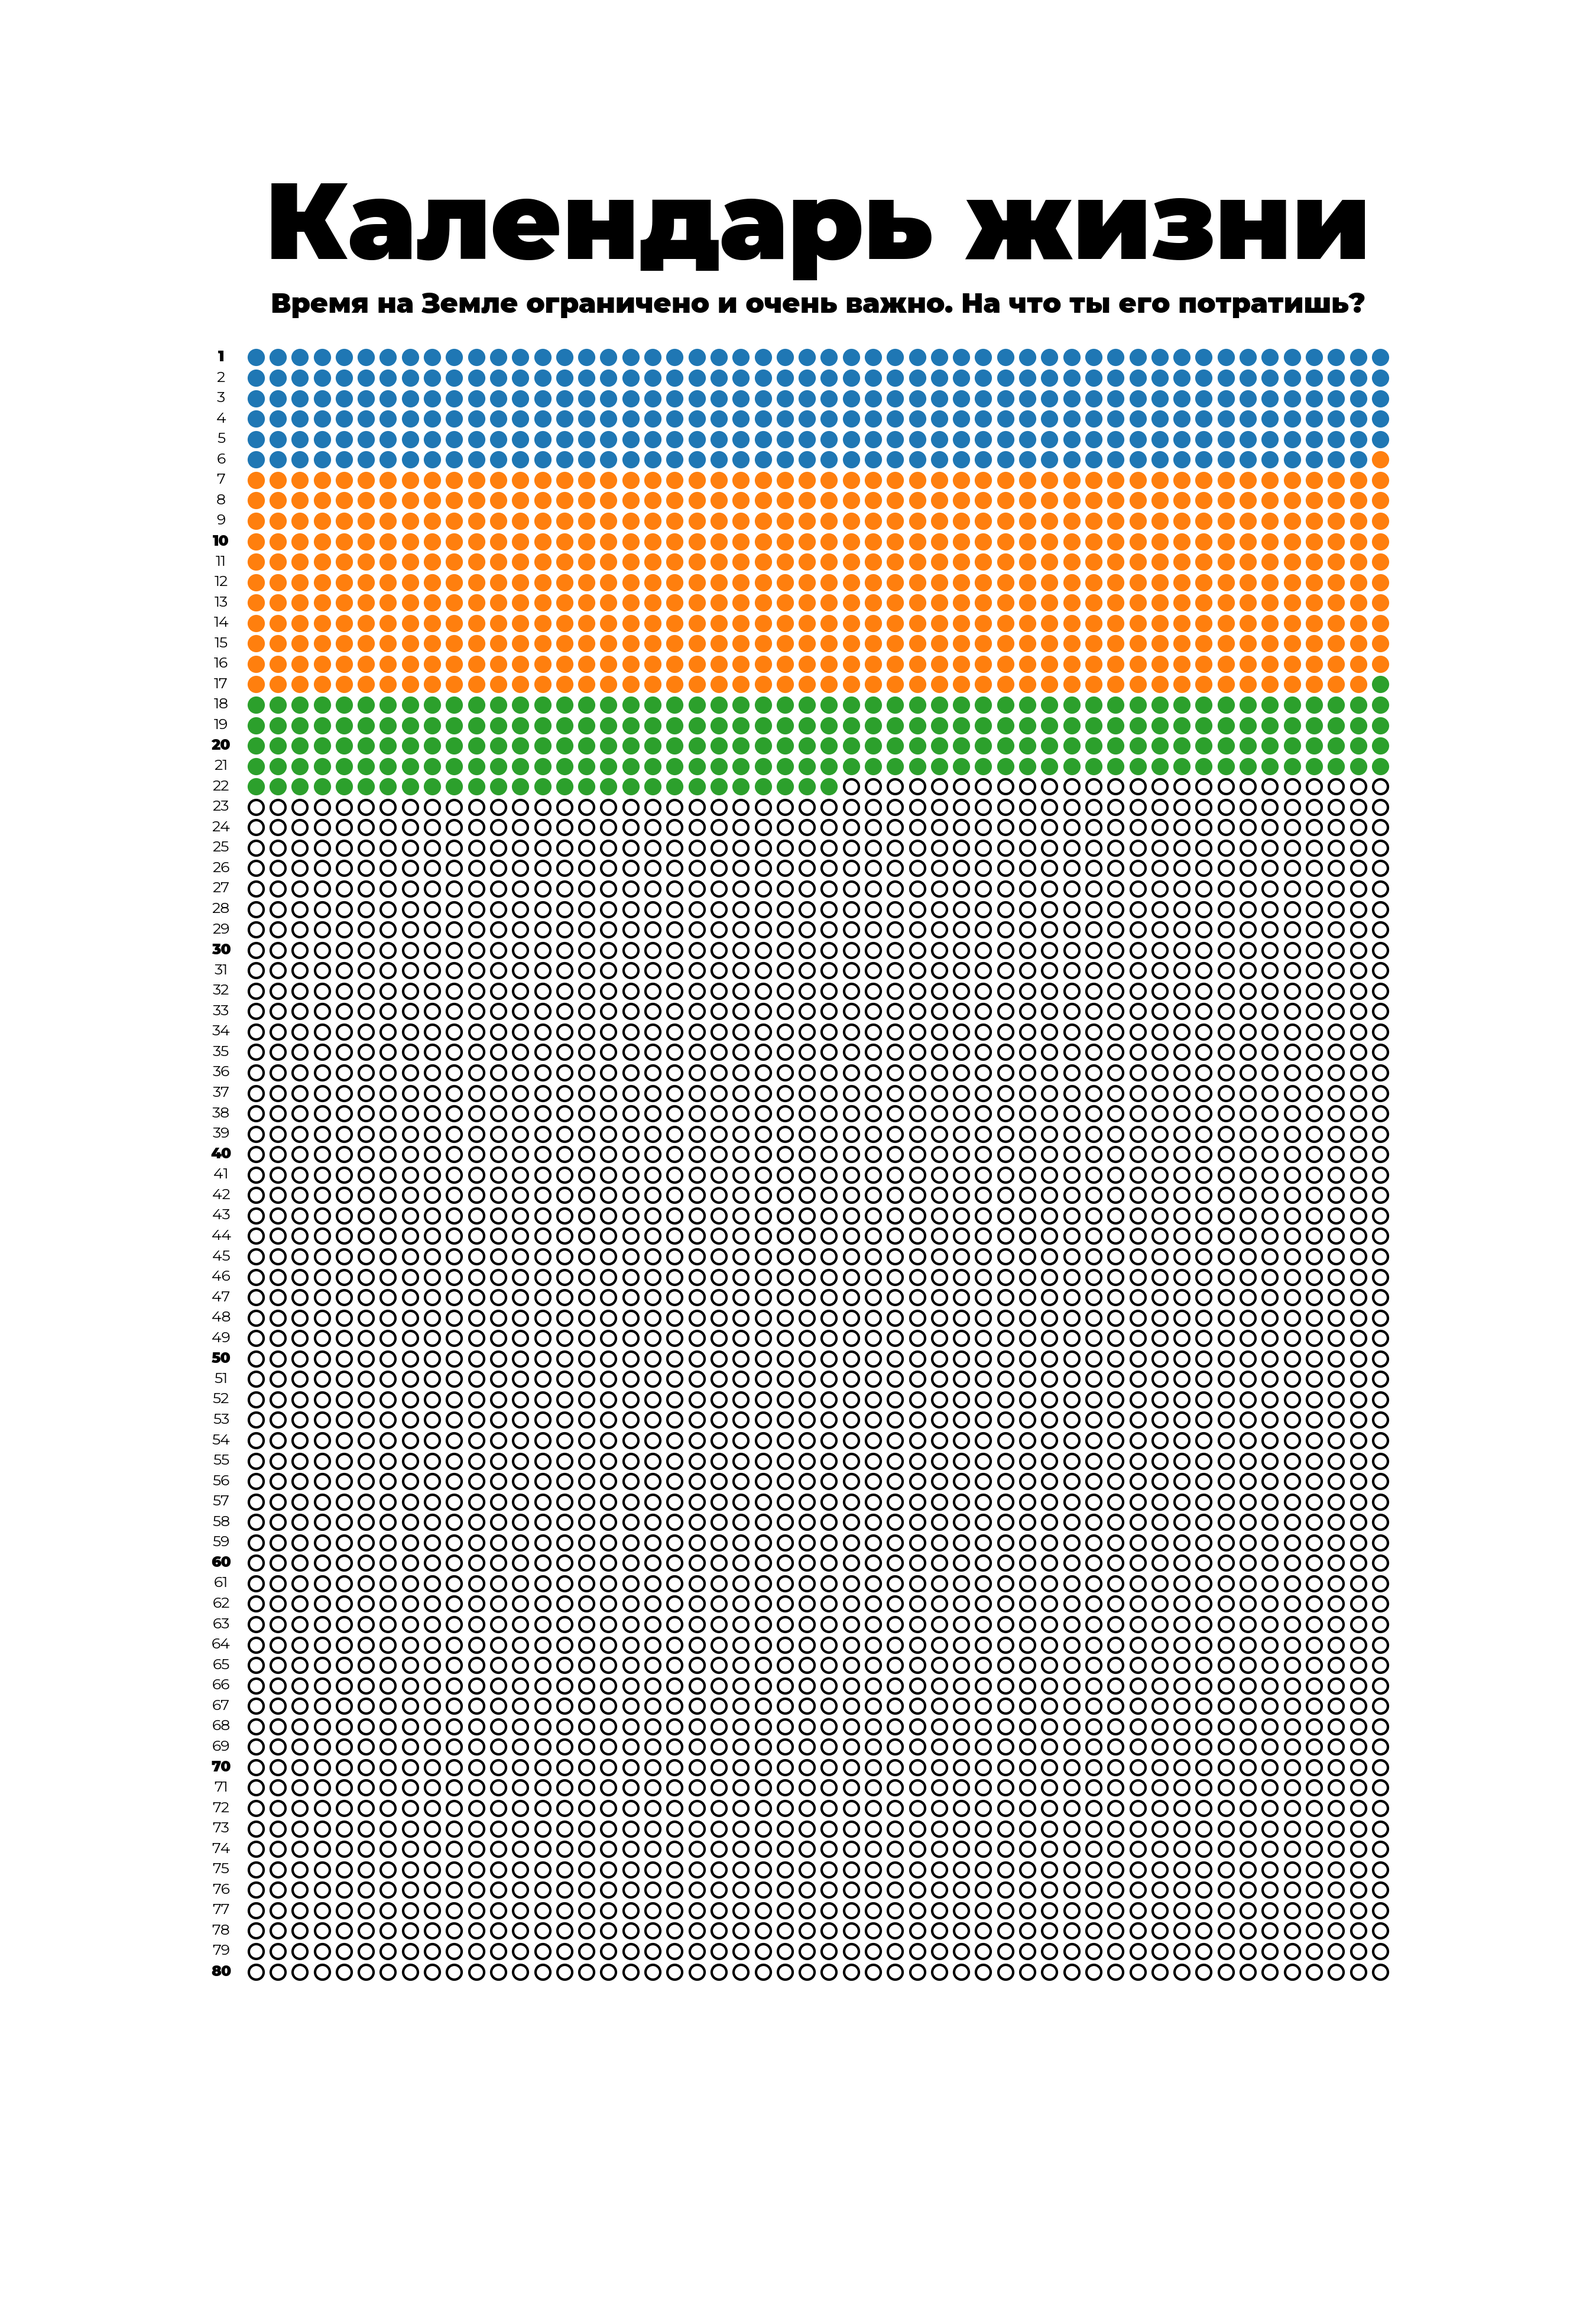
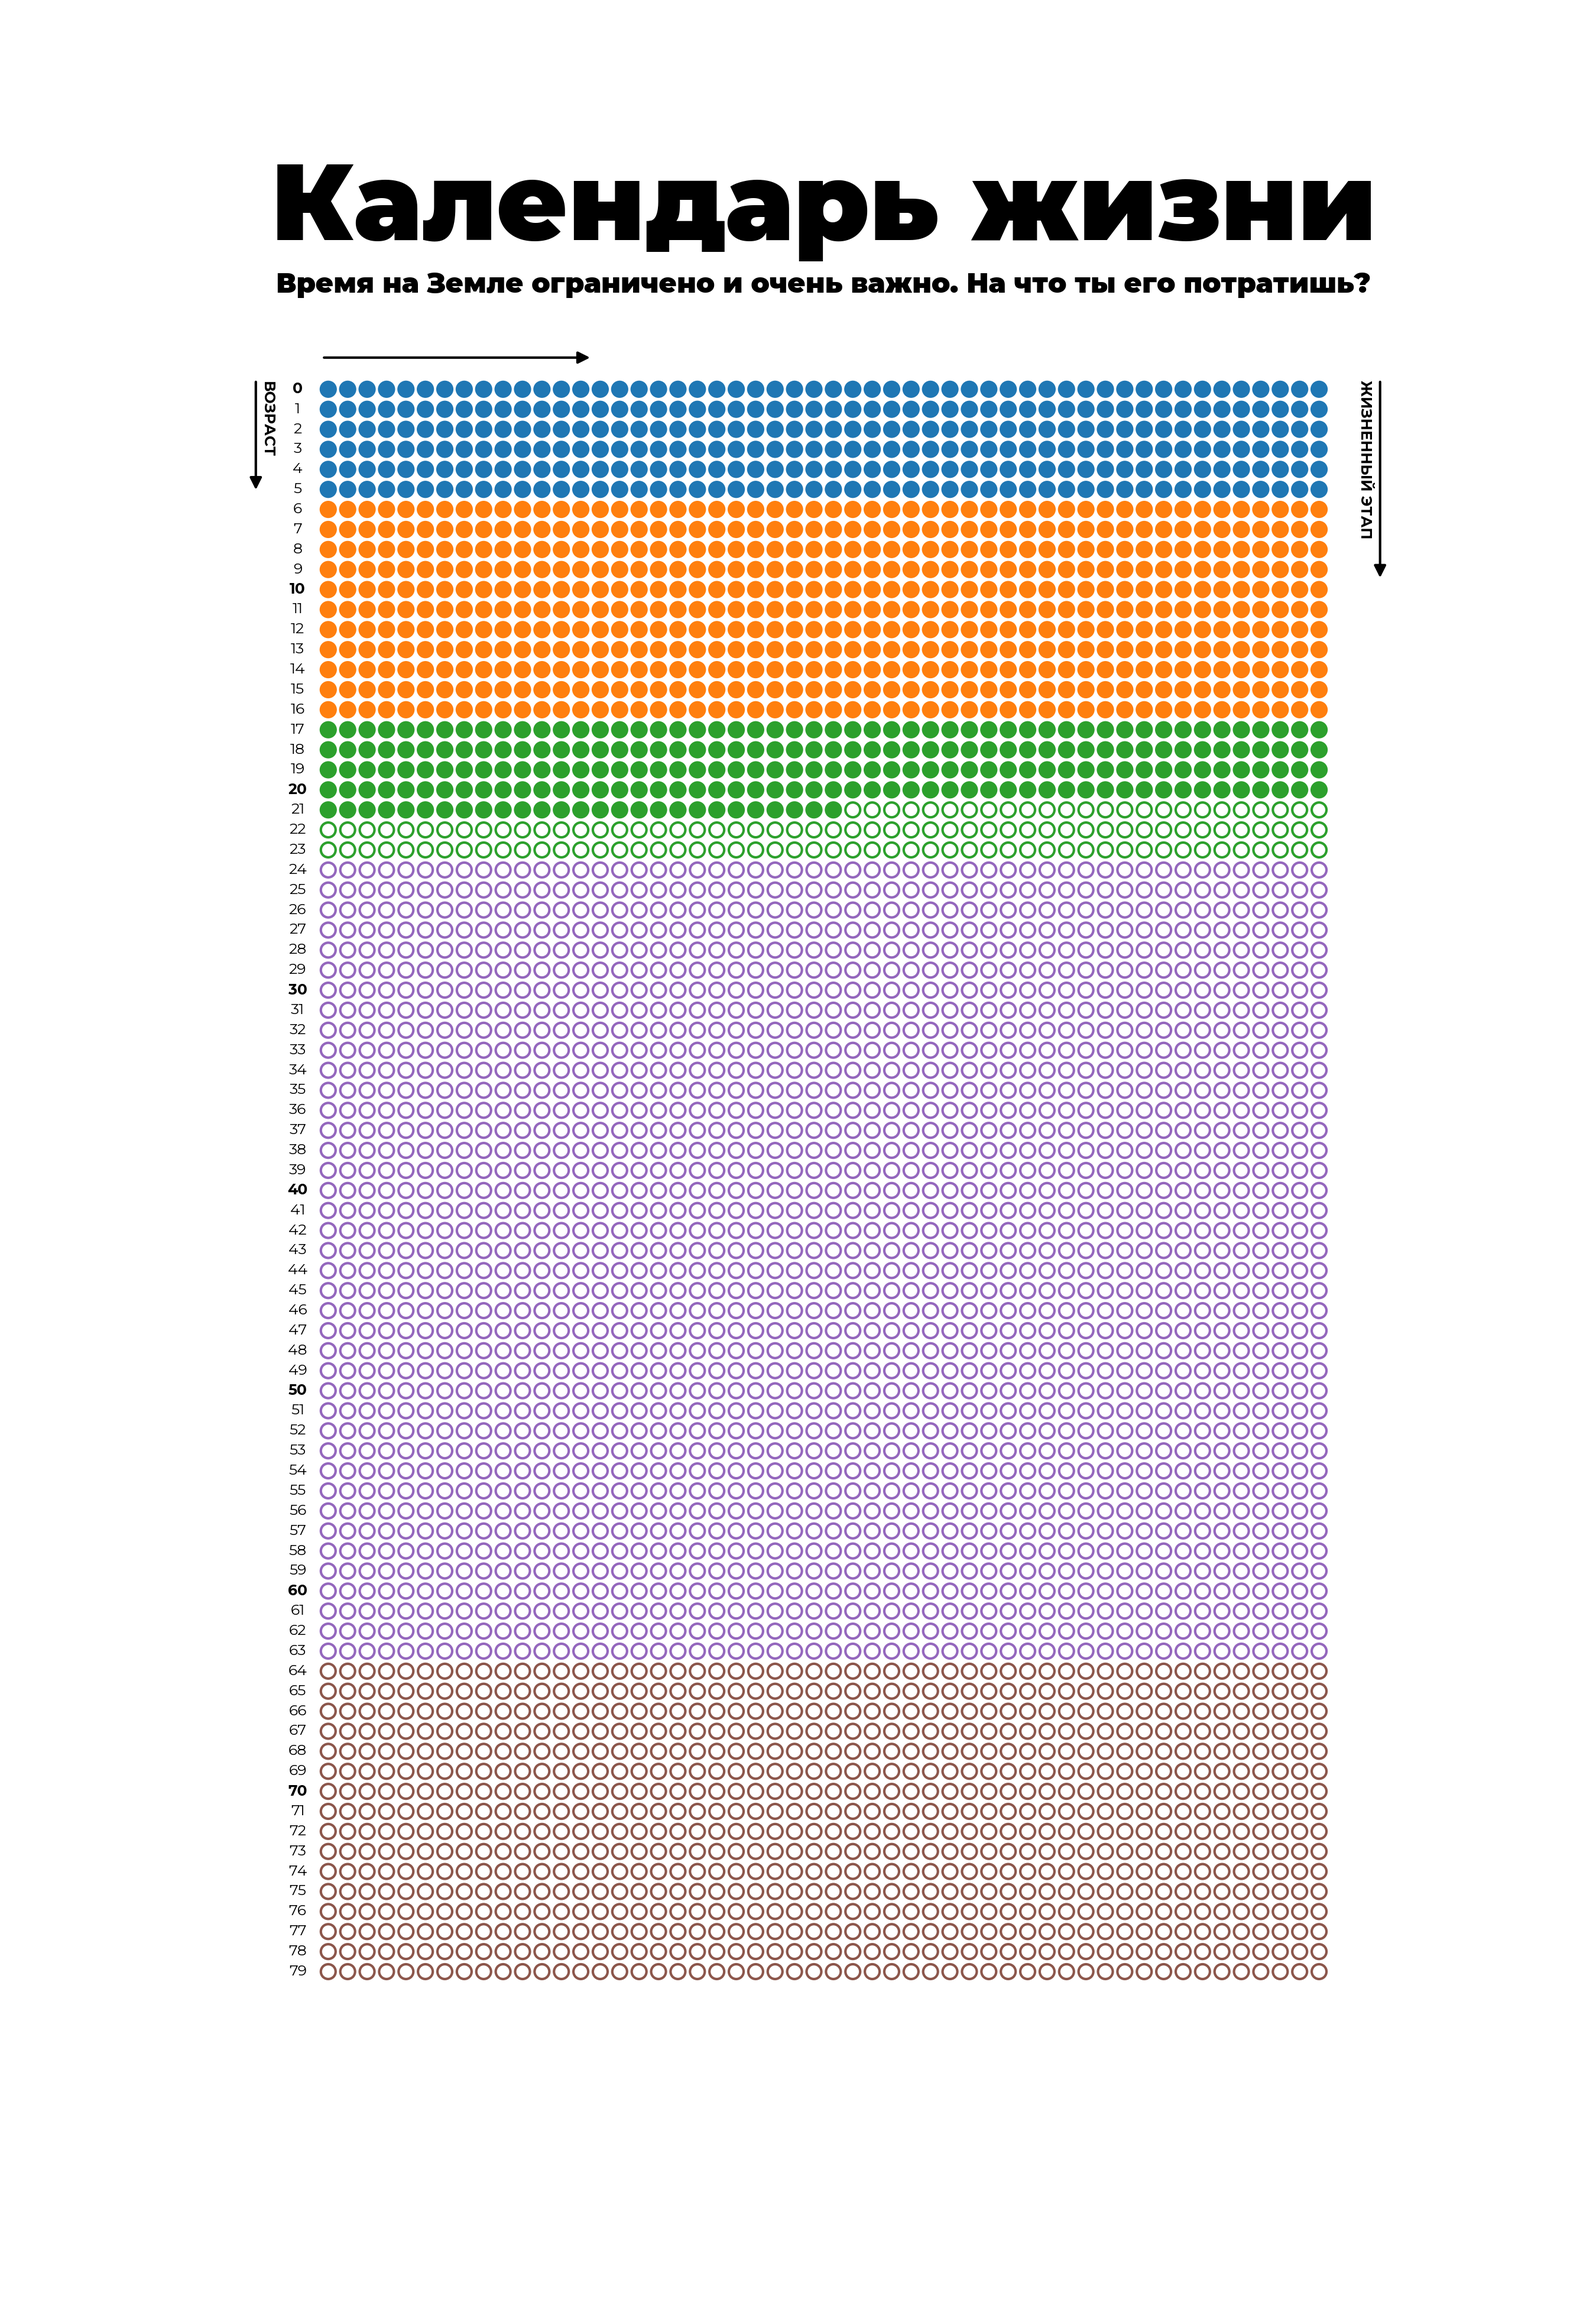
Add arrows to the calendar

Changed region(s): [[0.1244, 0.0621, 0.8711, 0.8687]]

diff --git a/life-calendar.py b/life-calendar.py
@@ -3,108 +3,116 @@ from __future__ import annotations
 import bisect
 import numpy as np
 from typing import NamedTuple
-from collections import defaultdict
 from datetime import date, timedelta
 
 from matplotlib.font_manager import fontManager
+from matplotlib.patches import FancyArrowPatch
 import matplotlib.pyplot as plt
 
+# ———————————————————————————————————————— FONT SETTINGS ————————————————————————————————————————
+
+fontManager.addfont('fonts/Montserrat-Bold.ttf')
 fontManager.addfont('fonts/Montserrat-Black.ttf')
 fontManager.addfont('fonts/Montserrat-Regular.ttf')
 plt.rcParams['font.family'] = 'Montserrat'
 plt.rcParams['font.weight'] = 'regular'
 
-TITLE_FONT = {
-    'family': 'Montserrat',
-    'weight': 'black',
-    'size': plt.rcParams.get('font.size', 12) * 4.4
-}
+TITLE_FONT =    {'family': 'Montserrat', 'weight': 'black',   'size': plt.rcParams.get('font.size', 12) * 4.4}
+SUBTITLE_FONT = {'family': 'Montserrat', 'weight': 'black',   'size': plt.rcParams.get('font.size', 12) * 1.115}
+BLACK_FONT =    {'family': 'Montserrat', 'weight': 'bold',    'size': plt.rcParams.get('font.size', 12) * 0.6}
+TEXT_FONT =     {'family': 'Montserrat', 'weight': 'regular', 'size': plt.rcParams.get('font.size', 12) * 0.6}
 
-SUBTITLE_FONT = {
-    'family': 'Montserrat',
-    'weight': 'black',
-    'size': plt.rcParams.get('font.size', 12) * 1.115
-}
-
-BLACK_FONT = {
-    'family': 'Montserrat',
-    'weight': 'bold',
-    'size': plt.rcParams.get('font.size', 12) * 0.6
-}
-
-TEXT_FONT = {
-    'family': 'Montserrat',
-    'weight': 'regular',
-    'size': plt.rcParams.get('font.size', 12) * 0.6
-}
+# ———————————————————————————————————————— CALENDAR RENDERING ————————————————————————————————————————
 
 def create_calendar(birthday, life: list[LifeStage], fname: str = 'calendar-of-life.png', h = 13, w = 9):
+    
+    # Initial settings 
+    
     plt.rcParams.update(plt.rcParamsDefault)
     fig, ax = plt.subplots(figsize = (w, h))
     ax.set_axis_off()
-    plt.text(6.5, 9.55, 'Календарь жизни', ha = 'center', **TITLE_FONT) 
-    plt.text(6.5, 9.25, 'Время на Земле ограничено и очень важно. На что ты его потратишь?', ha = 'center', **SUBTITLE_FONT)
+
+    # Rendering circles in a calendar
 
     days_per_week = 365.25 / 52
     weeks_of_life = (date.today() - birthday).days // 7 
     weeks_of_life_past = np.cumsum([(b.date - a.date).days / days_per_week for a, b in zip(life, life[1:])])
 
-    facecolors = {e.stage: e.color for e in life[1:]}
-    facecolors['future'] = 'white'
-    edgecolors = {e.stage: e.color for e in life[1:]} 
-    edgecolors['future'] = 'k' 
-    
-    data = defaultdict(list)
     week_num = 0
+    X, Y = [], []
+    FC, EC = [], []
+    facecolors = {e.stage : e.color for e in life[1:]}
+    edgecolors = {e.stage : e.color for e in life[1:]} 
     weeks = np.linspace(0, h, 52)
     years = np.linspace(w, 0, 80)
 
     for year in years:
         for week in weeks:
-            week_num += 1 
-            if week_num > weeks_of_life: 
-                stage = 'future' 
-            else: 
-                index = bisect.bisect_left(weeks_of_life_past, week_num) + 1
-                stage = life[index].stage
-            data[stage].append((week, year)) 
+            week_num += 1
+            stage = life[bisect.bisect_left(weeks_of_life_past, week_num) + 1].stage
+            X.append(week)
+            Y.append(year)
+            FC.append(facecolors[stage] if week_num <= weeks_of_life else 'white')
+            EC.append(edgecolors[stage])
 
-    for k, v in data.items():
-        ax.scatter(*zip(*v), edgecolors=edgecolors[k], facecolor=facecolors[k], label=k)
+    ax.scatter(X, Y, facecolors = FC, edgecolors = EC)
 
+    # Adding design elements
+
+    plt.text(6.5, 9.85, 'Календарь жизни', ha = 'center', **TITLE_FONT) 
+    plt.text(6.5, 9.55, 'Время на Земле ограничено и очень важно. На что ты его потратишь?', ha = 'center', **SUBTITLE_FONT)
+
+    # The right arrow 
+    arrow = FancyArrowPatch(
+        posA = (13.8, 9.07), posB = (13.8, 7.9),
+        arrowstyle = '-|>', connectionstyle = 'arc3, rad = 0',
+        mutation_scale = 10, linewidth = 1,
+        color = 'k', capstyle = 'round'
+    )
+    plt.gca().add_patch(arrow)
+    plt.text(13.6, 8.165, 'ЖИЗНЕННЫЙ ЭТАП', ha = 'center', **BLACK_FONT, rotation = 270) 
+
+    # The left arrow 
+    arrow = FancyArrowPatch(
+        posA = (-0.95, 9.07), posB = (-0.95, 8.4),
+        arrowstyle = '-|>', connectionstyle = 'arc3, rad = 0',
+        mutation_scale = 10, linewidth = 1,
+        color = 'k', capstyle = 'round'
+    )
+    plt.gca().add_patch(arrow)
+    plt.text(-0.8, 8.63, 'ВОЗРАСТ', ha = 'center', **BLACK_FONT, rotation = 270) 
+
+    # Upper arrow
+    arrow = FancyArrowPatch(
+        posA = (-0.12, 9.18), posB = (3.5, 9.18),
+        arrowstyle = '-|>', connectionstyle = 'arc3, rad = 0',
+        mutation_scale = 10, linewidth = 1,
+        color = 'k', capstyle = 'round'
+    )
+    plt.gca().add_patch(arrow)
+
+    # Numbering of years
     for i, year in enumerate(years):
-        if (i + 1) % 10 == 0 or i == 0:
-            ax.text(
-                -0.4,
-                year,
-                f'{i + 1}',
-                horizontalalignment='center',
-                verticalalignment='center',
-                **BLACK_FONT
-            )
+        if (i) % 10 == 0 or i == 0:
+            ax.text(-0.4, year, f'{i}', horizontalalignment='center', verticalalignment='center', **BLACK_FONT)
         else: 
-            ax.text(
-                -0.4,
-                year,
-                f'{i + 1}',
-                horizontalalignment='center',
-                verticalalignment='center',
-                **TEXT_FONT
-            )
+            ax.text(-0.4, year, f'{i}', horizontalalignment='center', verticalalignment='center', **TEXT_FONT)
 
     plt.savefig(fname, dpi = 300)
 
+# ———————————————————————————————————————— INITIALIZING ————————————————————————————————————————
+
 class LifeStage(NamedTuple):
     stage: str
-    date: date
+    date:  date
     color: str | None = None
 
 if __name__ == '__main__':
     birthday = date(2004, 1, 19)
     life = [
         LifeStage('Рождение', birthday),
-        LifeStage('Раннее детство', birthday + timedelta(days = 6 * 365.25),  'C0'),
-        LifeStage('Школьные годы', birthday + timedelta(days = 17 * 365.25), 'C1'),
+        LifeStage('Раннее детство', birthday + timedelta(days = 6 * 365.25 + 7),  'C0'),
+        LifeStage('Школьные годы', birthday + timedelta(days = 17 * 365.25 + 7), 'C1'),
         LifeStage('Университет', birthday + timedelta(days = 24 * 365.25), 'C2'),
         LifeStage('Взрослая жизнь', birthday + timedelta(days = 64 * 365.25), 'C4'),
         LifeStage('Старость', birthday + timedelta(days = 99 * 365.25), 'C5'),
